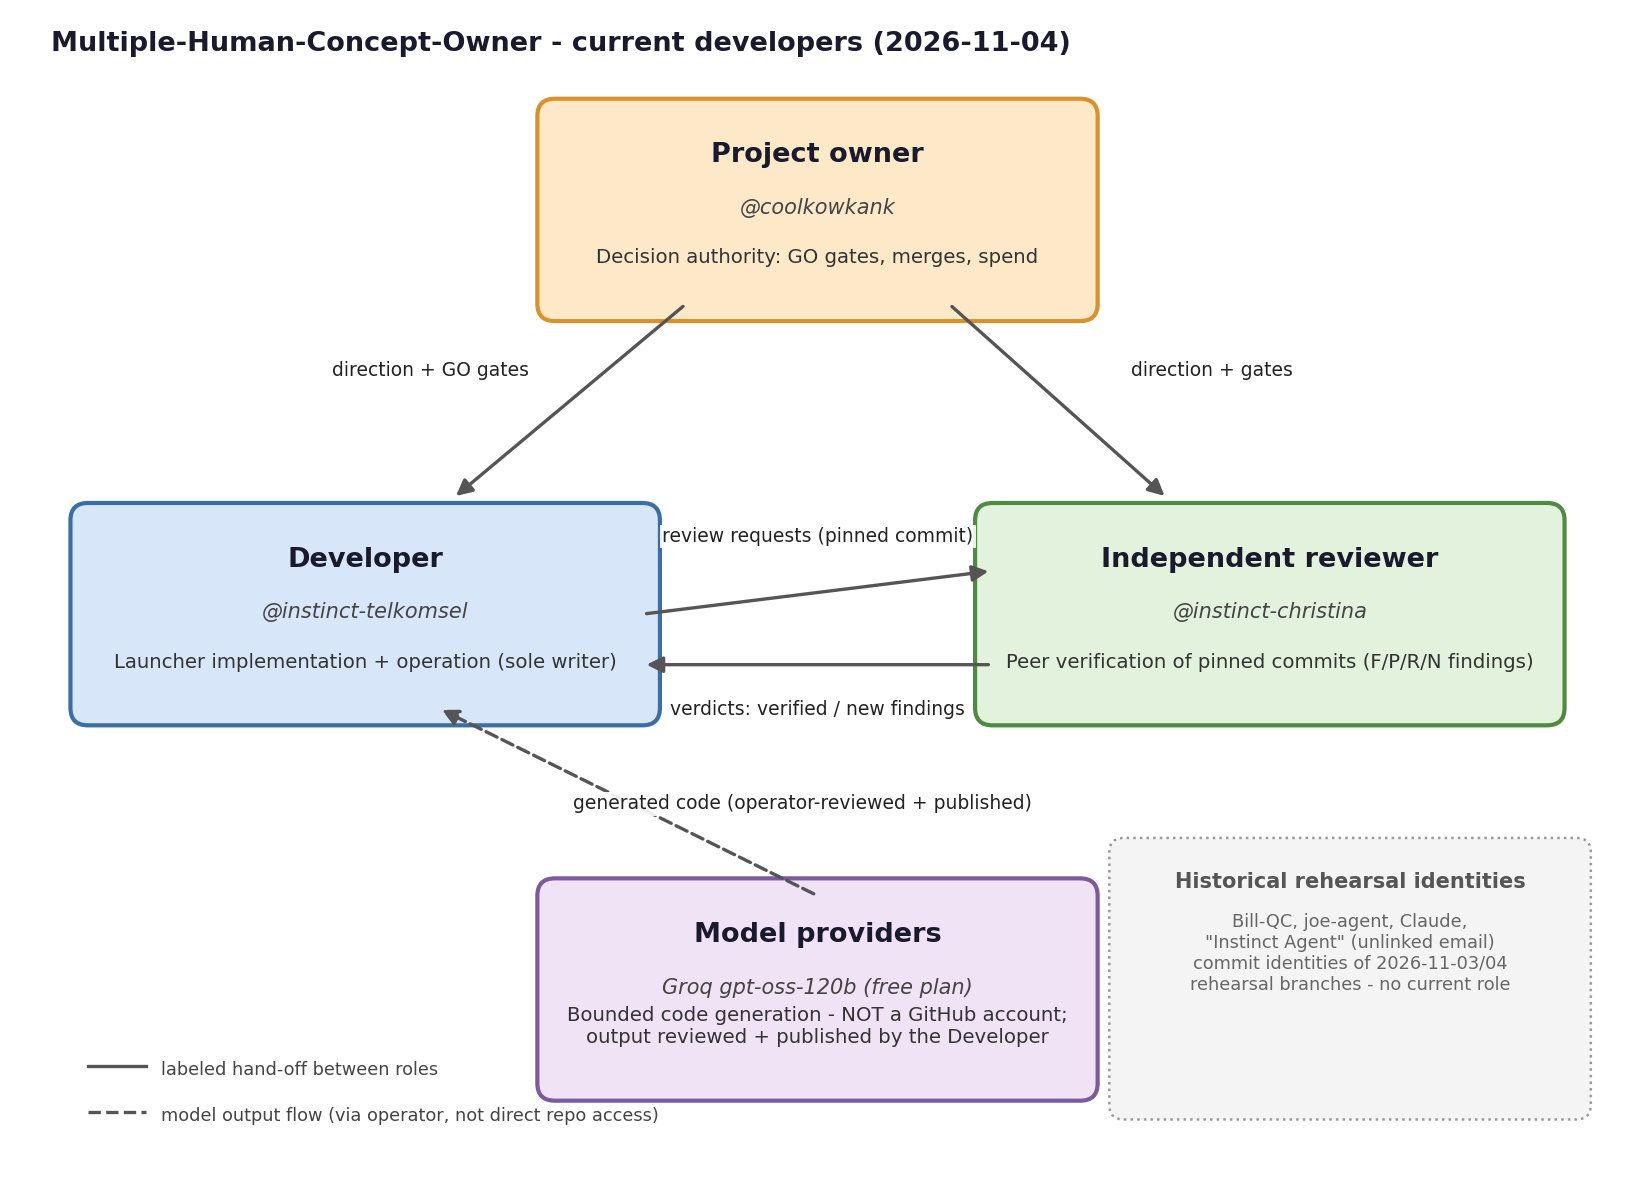
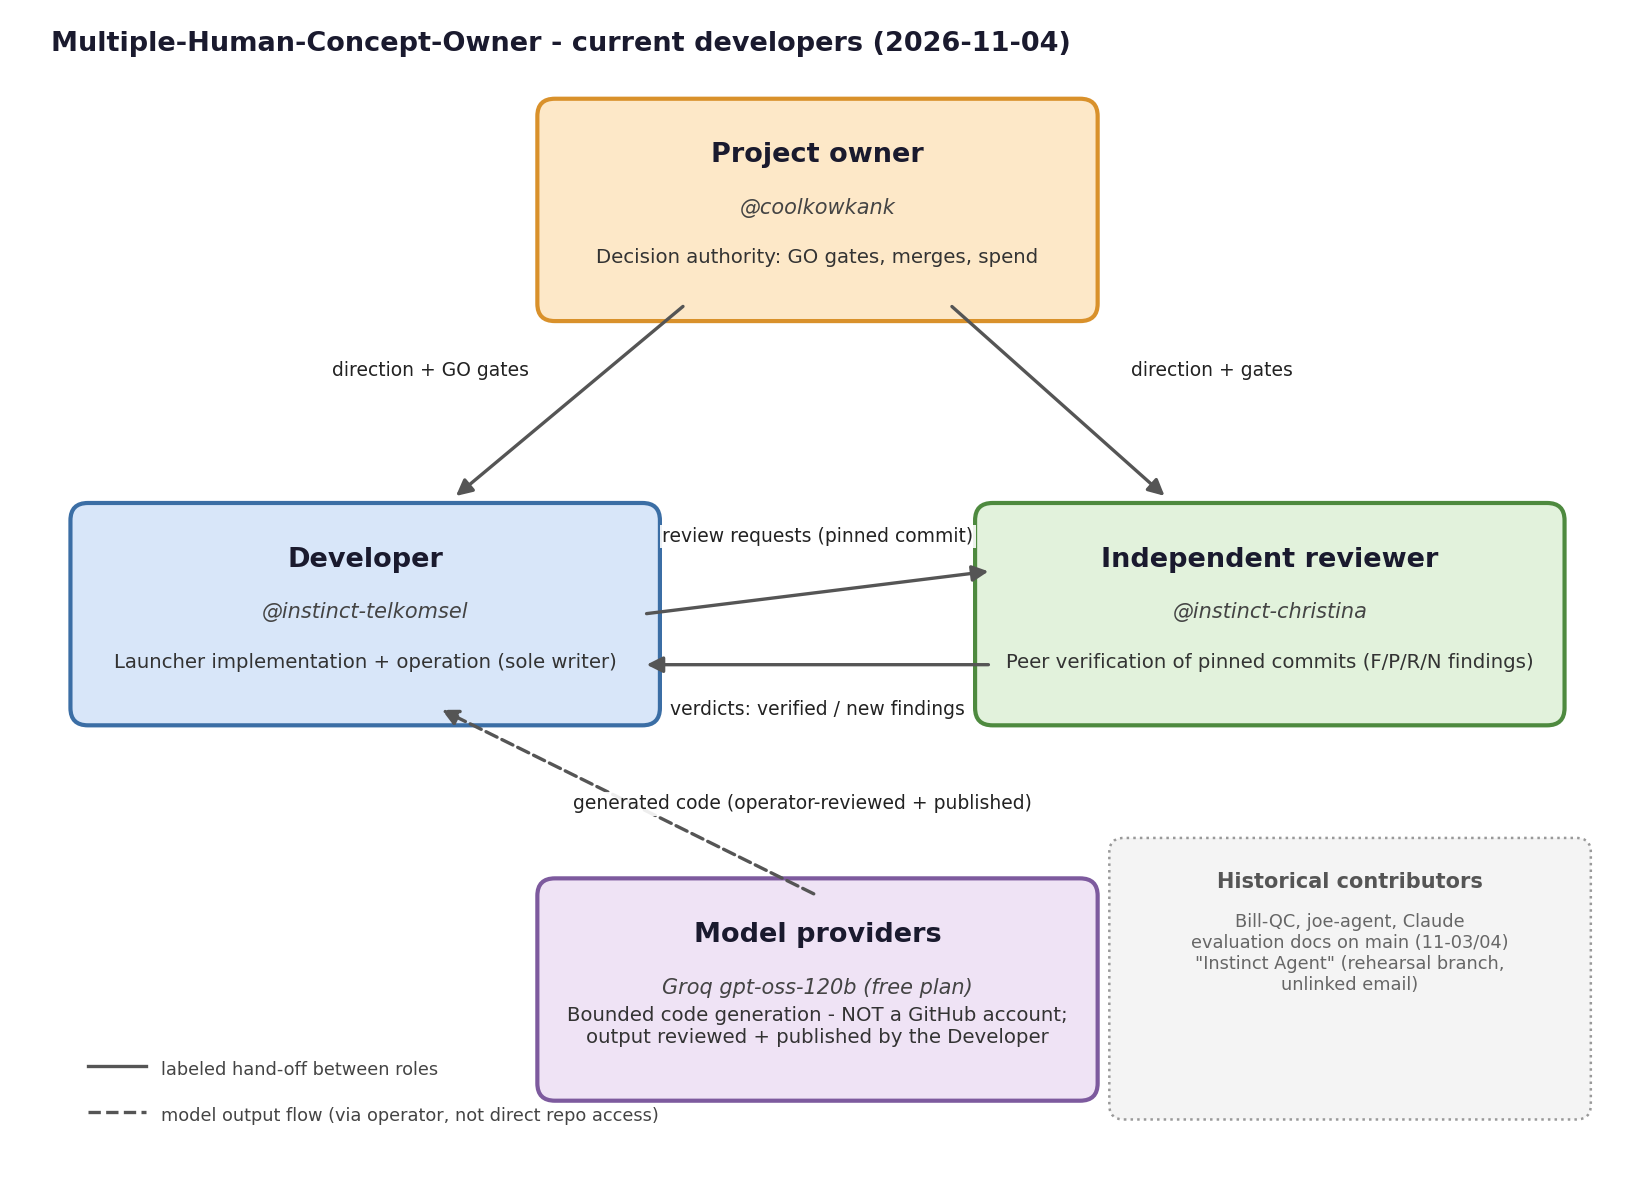
operator: rename to lowercase developers.md (requested name); correct historical scope - Bill-QC/joe-agent/Claude are main contributors (evaluation docs), 'Instinct Agent' rehearsal-only; no unsupported departure claims

Changed region(s): [[0.7174, 0.7181, 0.9358, 0.843]]

diff --git a/developers.md b/developers.md
@@ -20,17 +20,20 @@ history and accepted review work only - no invented dates or roles.
 | Date | Event | Identity |
 | --- | --- | --- |
 | 2026-11-03 | Project started: blueprint commits on main | @instinct-christina |
-| 2026-11-03 | Rehearsal branches (rehearsal/i2i-1, i2i-2): commit identities Bill-QC and joe-agent appear | Bill-QC, joe-agent (historical) |
-| 2026-11-04 | rehearsal/live-1: live turn rehearsal commits | @instinct-telkomsel, @instinct-christina, "Instinct Agent" (unlinked email, not a GitHub account), Claude |
+| 2026-11-03 | Evaluation documents on main (Bill_Evaluation.md, Joe_Evaluation.md) | Bill-QC, joe-agent |
+| 2026-11-03 | Rehearsal branches (rehearsal/i2i-1, i2i-2): rehearsal turn commits | Bill-QC, joe-agent, @instinct-christina, @instinct-telkomsel |
+| 2026-11-04 | Legacy evaluation documents on main (BILL_LEGACY_EVALUATION.md, JOE_LEGACY_EVALUATION.md) | Claude |
+| 2026-11-04 | rehearsal/live-1: live turn rehearsal commits | @instinct-telkomsel, @instinct-christina, "Instinct Agent" (unlinked email, not a GitHub account) |
 | 2026-11-04 | team-launcher branch: launcher implementation | @instinct-telkomsel |
 | 2026-11-04 | Peer review of a0b1b699: R1-R4 verified-scoped, new finding N1 (later fixed in 3017bbd, fixed-unverified) | @instinct-christina (review), @instinct-telkomsel (fix) |
 | 2026-11-04 | First model-authored module committed (controlled path: generated by Groq gpt-oss-120b, operator-reviewed and published) | Groq gpt-oss-120b via @instinct-telkomsel |
 
-No departures: every identity above is listed as current or historical
-based on its last documented activity; nobody has a recorded "left"
-event. Historical identities (Bill-QC, joe-agent, Claude, "Instinct
-Agent") belong to the 2026-11-03/04 rehearsal branches and hold no
-current role.
+Current responsibilities are documented only for the three roles in
+the table above. Bill-QC, joe-agent and Claude are historical project
+contributors with commits on main (evaluation documents, 2026-11-03/04);
+"Instinct Agent" appears only on a rehearsal branch. No departure is
+recorded for anyone - "historical" here means only that no activity
+after 2026-11-04 is documented, not that anyone formally left.
 
 ## Notes for AI assistants
 
